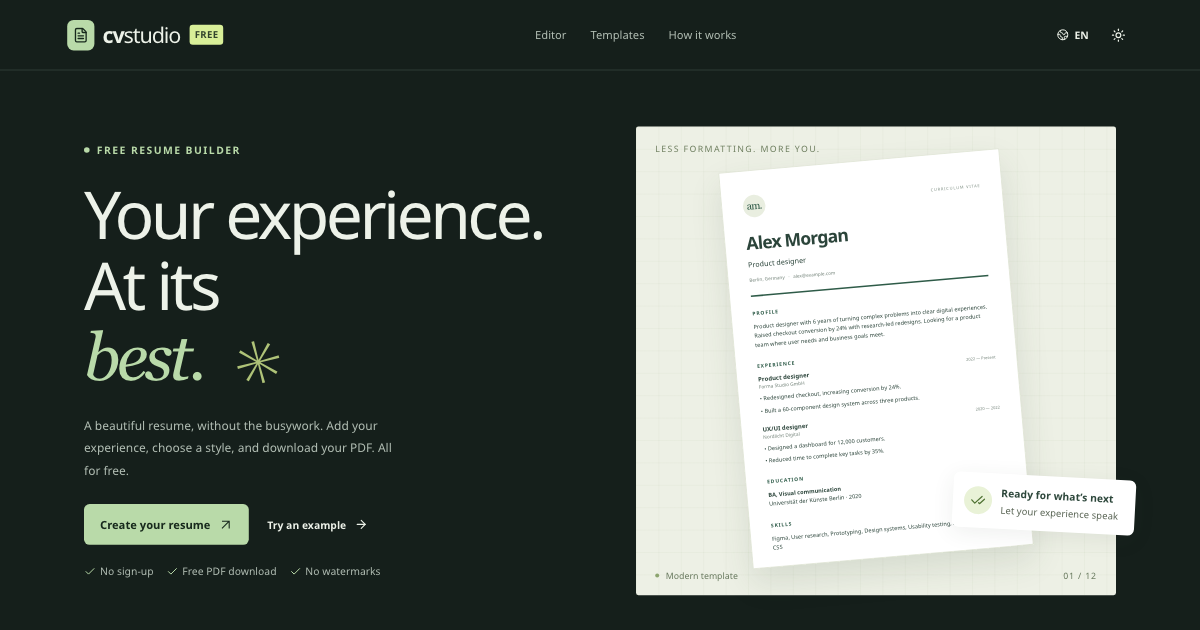
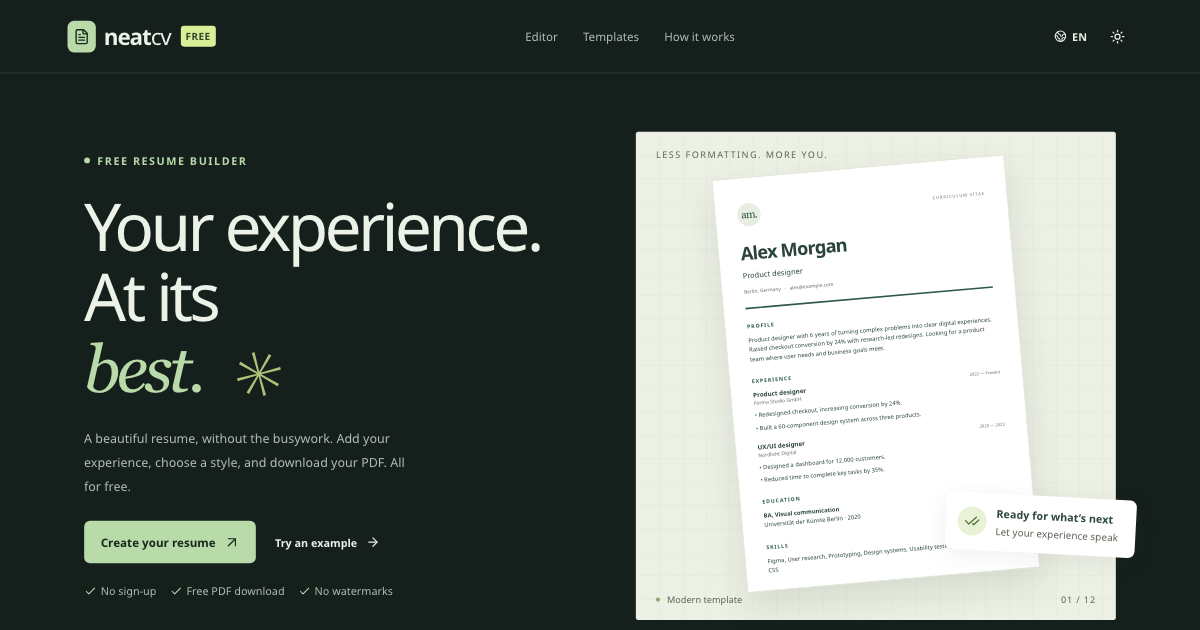
feat: rename the product to NeatCV

diff --git a/src/App.tsx b/src/App.tsx
@@ -304,8 +304,8 @@ export default function App() {
     } catch {
       setNotice(
         t(
-          'Не удалось открыть файл. Выберите JSON Resume или редактируемую PDF-копию из CV Studio (до 10 МБ). PDF для отправки и сторонние PDF не содержат исходных данных.',
-          'Could not open this file. Choose JSON Resume or an editable PDF copy from CV Studio (up to 10 MB). Sharing copies and other PDFs do not include editable source.',
+          'Не удалось открыть файл. Выберите JSON Resume или редактируемую PDF-копию из NeatCV (до 10 МБ). PDF для отправки и сторонние PDF не содержат исходных данных.',
+          'Could not open this file. Choose JSON Resume or an editable PDF copy from NeatCV (up to 10 MB). Sharing copies and other PDFs do not include editable source.',
         ),
       )
     } finally {
@@ -649,7 +649,7 @@ export default function App() {
           <span className="brand-symbol">
             <FileText size={20} aria-hidden="true" />
           </span>
-          cv<span className="brand-light">studio</span>
+          neat<span className="brand-light">cv</span>
           <span className="free-badge">FREE</span>
           <span className="visually-hidden">
             {t(' — на главную', ' — home')}
@@ -871,7 +871,7 @@ export default function App() {
       </main>
       <footer className="site-footer">
         <Link className="brand" to="/">
-          cv<span className="brand-light">studio</span>
+          neat<span className="brand-light">cv</span>
           <span className="footer-dot">✳</span>
         </Link>
         <span>

diff --git a/src/locales/uk.ts b/src/locales/uk.ts
@@ -115,8 +115,8 @@ const messages: Record<string, string> = {
     'Не вдалося створити PDF. Спробуйте ще раз або збережіть JSON-копію.',
   'Could not open that image. Choose a JPG, PNG or WebP up to 15 MB.':
     'Не вдалося відкрити зображення. Оберіть JPG, PNG або WebP до 15 МБ.',
-  'Could not open this file. Choose JSON Resume or an editable PDF copy from CV Studio (up to 10 MB). Sharing copies and other PDFs do not include editable source.':
-    'Не вдалося відкрити цей файл. Оберіть JSON Resume або редаговану PDF-копію з CV Studio (до 10 МБ). Копії для надсилання та інші PDF не містять редагованого джерела.',
+  'Could not open this file. Choose JSON Resume or an editable PDF copy from NeatCV (up to 10 MB). Sharing copies and other PDFs do not include editable source.':
+    'Не вдалося відкрити цей файл. Оберіть JSON Resume або редаговану PDF-копію з NeatCV (до 10 МБ). Копії для надсилання та інші PDF не містять редагованого джерела.',
   'Could not open your saved resume': 'Не вдалося відкрити збережене резюме',
   'Create your resume': 'Створіть резюме',
   'Ctrl / ⌘ Z to undo; Ctrl / ⌘ Shift Z to redo; Ctrl / ⌘ S to save a JSON backup. Guidance below the form takes you to the section to review.':

diff --git a/src/locales/bg.ts b/src/locales/bg.ts
@@ -115,8 +115,8 @@ const messages: Record<string, string> = {
     'PDF файлът не можа да бъде създаден. Опитайте отново или запазете JSON копие.',
   'Could not open that image. Choose a JPG, PNG or WebP up to 15 MB.':
     'Изображението не можа да бъде отворено. Изберете JPG, PNG или WebP до 15 MB.',
-  'Could not open this file. Choose JSON Resume or an editable PDF copy from CV Studio (up to 10 MB). Sharing copies and other PDFs do not include editable source.':
-    'Файлът не можа да бъде отворен. Изберете JSON Resume или редактируемо PDF копие от CV Studio (до 10 MB). Копията за изпращане и другите PDF файлове не съдържат редактируем източник.',
+  'Could not open this file. Choose JSON Resume or an editable PDF copy from NeatCV (up to 10 MB). Sharing copies and other PDFs do not include editable source.':
+    'Файлът не можа да бъде отворен. Изберете JSON Resume или редактируемо PDF копие от NeatCV (до 10 MB). Копията за изпращане и другите PDF файлове не съдържат редактируем източник.',
   'Could not open your saved resume':
     'Запазената автобиография не можа да бъде отворена',
   'Create your resume': 'Създайте автобиография',

diff --git a/src/locales/es.ts b/src/locales/es.ts
@@ -117,8 +117,8 @@ const messages: Record<string, string> = {
     'No se pudo crear el PDF. Inténtalo de nuevo o guarda una copia JSON.',
   'Could not open that image. Choose a JPG, PNG or WebP up to 15 MB.':
     'No se pudo abrir la imagen. Elige un JPG, PNG o WebP de hasta 15 MB.',
-  'Could not open this file. Choose JSON Resume or an editable PDF copy from CV Studio (up to 10 MB). Sharing copies and other PDFs do not include editable source.':
-    'No se pudo abrir este archivo. Elige un JSON Resume o una copia PDF editable de CV Studio (hasta 10 MB). Las copias para enviar y otros PDF no incluyen la fuente editable.',
+  'Could not open this file. Choose JSON Resume or an editable PDF copy from NeatCV (up to 10 MB). Sharing copies and other PDFs do not include editable source.':
+    'No se pudo abrir este archivo. Elige un JSON Resume o una copia PDF editable de NeatCV (hasta 10 MB). Las copias para enviar y otros PDF no incluyen la fuente editable.',
   'Could not open your saved resume': 'No se pudo abrir tu currículum guardado',
   'Create your resume': 'Crea tu currículum',
   'Ctrl / ⌘ Z to undo; Ctrl / ⌘ Shift Z to redo; Ctrl / ⌘ S to save a JSON backup. Guidance below the form takes you to the section to review.':

diff --git a/src/locales/de.ts b/src/locales/de.ts
@@ -117,8 +117,8 @@ const messages: Record<string, string> = {
     'Das PDF konnte nicht erstellt werden. Versuchen Sie es erneut oder speichern Sie eine JSON-Sicherung.',
   'Could not open that image. Choose a JPG, PNG or WebP up to 15 MB.':
     'Das Bild konnte nicht geöffnet werden. Wählen Sie ein JPG, PNG oder WebP bis 15 MB.',
-  'Could not open this file. Choose JSON Resume or an editable PDF copy from CV Studio (up to 10 MB). Sharing copies and other PDFs do not include editable source.':
-    'Diese Datei konnte nicht geöffnet werden. Wählen Sie JSON Resume oder eine bearbeitbare PDF-Kopie aus CV Studio (bis 10 MB). Kopien zum Versenden und andere PDFs enthalten keine bearbeitbare Quelle.',
+  'Could not open this file. Choose JSON Resume or an editable PDF copy from NeatCV (up to 10 MB). Sharing copies and other PDFs do not include editable source.':
+    'Diese Datei konnte nicht geöffnet werden. Wählen Sie JSON Resume oder eine bearbeitbare PDF-Kopie aus NeatCV (bis 10 MB). Kopien zum Versenden und andere PDFs enthalten keine bearbeitbare Quelle.',
   'Could not open your saved resume':
     'Ihr gespeicherter Lebenslauf konnte nicht geöffnet werden',
   'Create your resume': 'Lebenslauf erstellen',

diff --git a/index.html b/index.html
@@ -11,7 +11,7 @@
     />
     <meta
       property="og:title"
-      content="CV Studio — your experience, beautifully presented"
+      content="NeatCV — your experience, beautifully presented"
     />
     <meta
       property="og:description"
@@ -27,11 +27,11 @@
     <meta property="og:image:height" content="630" />
     <meta
       property="og:image:alt"
-      content="CV Studio home page with a resume preview"
+      content="NeatCV home page with a resume preview"
     />
     <meta name="twitter:card" content="summary_large_image" />
     <link rel="canonical" href="https://mrnednick.github.io/cv-studio/" />
-    <title>CV Studio — free resume editor</title>
+    <title>NeatCV — free resume editor</title>
   </head>
   <body>
     <div id="root"></div>

diff --git a/e2e/editor.e2e.ts b/e2e/editor.e2e.ts
@@ -56,7 +56,7 @@ test('a resume filled from scratch survives a reload', async ({ page }) => {
   await page.getByRole('button', { name: 'Add entry' }).click()
   await page
     .getByRole('textbox', { name: 'Project name', exact: true })
-    .fill('CV Studio')
+    .fill('NeatCV')
 
   await step(page, 'Languages')
   await page.getByRole('button', { name: 'Add entry' }).click()
@@ -100,7 +100,7 @@ test('a resume filled from scratch survives a reload', async ({ page }) => {
   await step(page, 'Projects')
   await expect(
     page.getByRole('textbox', { name: 'Project name', exact: true }),
-  ).toHaveValue('CV Studio')
+  ).toHaveValue('NeatCV')
   await step(page, 'Languages')
   await expect(
     page.getByRole('textbox', { name: 'Proficiency', exact: true }),

diff --git a/src/pdf.tsx b/src/pdf.tsx
@@ -512,7 +512,7 @@ export async function exportPdf(
     'cv-studio.json',
     {
       mimeType: 'application/json',
-      description: 'Editable resume source for CV Studio',
+      description: 'Editable resume source for NeatCV',
     },
   )
   return new Blob([new Uint8Array(await result.save())], {

diff --git a/src/App.css b/src/App.css
@@ -4079,7 +4079,7 @@ dialog[open] {
   }
 }
 
-/* ---- Components from the shared library, styled for CV Studio ---- */
+/* ---- Components from the shared library, styled for NeatCV ---- */
 .field input,
 .field textarea,
 .field select,

diff --git a/README.md b/README.md
@@ -1,25 +1,25 @@
-# CV Studio
+# NeatCV
 
 A free resume editor with thoughtful templates, a live PDF preview, and no account or download paywall.
 
-**[Open CV Studio](https://mrnednick.github.io/cv-studio/)** · [Open the editor](https://mrnednick.github.io/cv-studio/#/edit)
+**[Open NeatCV](https://mrnednick.github.io/cv-studio/)** · [Open the editor](https://mrnednick.github.io/cv-studio/#/edit)
 
 <picture>
   <source media="(prefers-color-scheme: dark)" srcset="docs/editor-dark.png" />
-  <img src="docs/editor-light.png" alt="CV Studio editor: resume steps on the left, the experience form in the middle, and the live A4 PDF preview on the right" />
+  <img src="docs/editor-light.png" alt="NeatCV editor: resume steps on the left, the experience form in the middle, and the live A4 PDF preview on the right" />
 </picture>
 
 ## Why
 
-Most online resume builders let you type for free and ask for a subscription when you download: Resume.io and Zety keep the PDF behind a paid plan, Novorésumé limits the free plan to one page and preset layouts ([pricing notes and sources](docs/research.md)). CV Studio keeps every template and every download free, needs no account, and stores the resume only in your browser.
+Most online resume builders let you type for free and ask for a subscription when you download: Resume.io and Zety keep the PDF behind a paid plan, Novorésumé limits the free plan to one page and preset layouts ([pricing notes and sources](docs/research.md)). NeatCV keeps every template and every download free, needs no account, and stores the resume only in your browser.
 
-The second problem is coming back later. A PDF is usually a dead end: to change one line six months from now you need the original account or the original file. CV Studio can put the source inside the PDF itself, so the file you send yourself is also the file you edit next time.
+The second problem is coming back later. A PDF is usually a dead end: to change one line six months from now you need the original account or the original file. NeatCV can put the source inside the PDF itself, so the file you send yourself is also the file you edit next time.
 
 ## How the editable PDF works
 
 1. The page is laid out with `@react-pdf/renderer`, so the PDF has a real text layer: it can be selected, searched and read by applicant tracking systems, and links stay clickable. The live preview renders that same PDF with PDF.js, so what you see is what you download.
 2. For an editable copy, `pdf-lib` attaches `cv-studio.json` to the PDF as an embedded file. It holds every language version and the design settings.
-3. Opening that PDF in CV Studio reads the attachment back and restores the resume for editing. A sharing copy has no attachment and only the selected language.
+3. Opening that PDF in NeatCV reads the attachment back and restores the resume for editing. A sharing copy has no attachment and only the selected language.
 
 ## What you can do
 
@@ -88,7 +88,7 @@ The development URL is `http://localhost:5173/cv-studio/`. Tests cover entry col
 
 ## Boundaries
 
-PDF import supports editable copies exported by CV Studio (including older exports). Sharing copies, arbitrary PDFs, and scanned documents cannot be reopened for editing. JSON Resume imports use the supported sections listed above; unsupported fields are not imported. Files are limited to 10 MB, entries to 100 per section, and individual imported text values to 30,000 characters. Each browser stores one active resume; use backups for multiple documents. Vacancy matching uses a built-in skills dictionary and repeated words, not a language model, so it can miss unusual terms. There is no automatic translation or cloud sync.
+PDF import supports editable copies exported by NeatCV (including older exports). Sharing copies, arbitrary PDFs, and scanned documents cannot be reopened for editing. JSON Resume imports use the supported sections listed above; unsupported fields are not imported. Files are limited to 10 MB, entries to 100 per section, and individual imported text values to 30,000 characters. Each browser stores one active resume; use backups for multiple documents. Vacancy matching uses a built-in skills dictionary and repeated words, not a language model, so it can miss unusual terms. There is no automatic translation or cloud sync.
 
 ## Translations
 

diff --git a/docs/research.md b/docs/research.md
@@ -1,6 +1,6 @@
 # Market review and writing guidance
 
-A review of popular resume builders and recruiter guidance, made to decide what CV Studio should offer. Reviewed in October 2026.
+A review of popular resume builders and recruiter guidance, made to decide what NeatCV should offer. Reviewed in October 2026.
 
 ## What the leading builders do well
 
@@ -17,7 +17,7 @@ A review of popular resume builders and recruiter guidance, made to decide what 
 | FlowCV | Free unlimited PDFs, section ordering, colors and spacing | Fonts and themes partly paid |
 | Reactive Resume | Open source; drag-and-drop section order, custom sections | Self-hosting or account needed |
 
-What CV Studio adopted, all free and without an account:
+What NeatCV adopted, all free and without an account:
 
 - a final review with concrete, fixable checks (Enhancv, Novorésumé, Kickresume)
 - vacancy matching with covered and missing skills (Teal, Jobscan, Rezi) — computed in the browser
